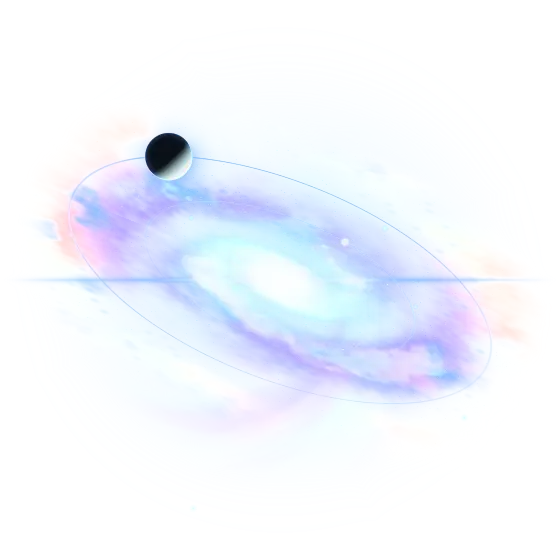
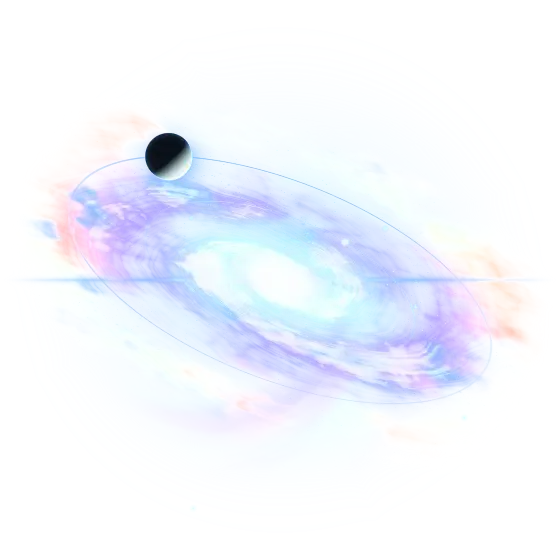
Session AM-2 (N3, the third critique's taste items): a finer galaxy, a larger star beside widgets, a mark per state
The star's shader gains the fine structure of a real disc, at the full detail only (a governed or software-drawn star
keeps the cheaper picture): fibres that run along the arms in the spiral's own coordinates, wisps of ridged turbulence,
a dust lane on each arm's inner edge, hot crests, smaller and softer star-forming knots in two colours, and a third,
finer layer of stars. Still no pow, no reversed ramp, no early loop exit (star-shader.test.ts). The five still pictures
are drawn again from it.

Beside widgets the star may now be as large as on the calm stage wherever its column holds it (from 1700 px of stage
that column is the widest by half; the sheet follows in the next commit), and a phone's star is 300 px. The bezel
carries a static mark for each state (listening, thinking, speaking), shown by opacity alone.

Claude-Session: https://claude.ai/code/session_015semg3HdoQFgabXjp9gY1W

diff --git a/apps/web/lib/nova/core/star-shader.ts b/apps/web/lib/nova/core/star-shader.ts
@@ -35,6 +35,7 @@ float hash(vec2 p){ p = fract(p*vec2(123.34, 456.21)); p += dot(p, p+45.32); ret
 float noise(vec2 p){ vec2 i=floor(p), f=fract(p); f=f*f*(3.-2.*f); return mix(mix(hash(i),hash(i+vec2(1,0)),f.x),mix(hash(i+vec2(0,1)),hash(i+vec2(1,1)),f.x),f.y); }
 float fbm(vec2 p){ float v=0., a=.5; for(int i=0;i<5;i++){ if(float(i) < uDetail){ v+=a*noise(p); p=p*2.03+vec2(17.1,9.2); a*=.5; } } return v/(1.-2.*a); }
 mat2 rot(float a){ float c=cos(a), s=sin(a); return mat2(c,-s,s,c); }
+float ridge(vec2 p){ return 1. - abs(2.*noise(p) - 1.); }
 float sq(float x){ return x*x; }
 const float TILT = .44; const float ROLL = -.38; const float ORBIT = .40; const float MOON = .255;
 void main(){
@@ -63,16 +64,33 @@ void main(){
   float lane = up(.42,.78, fbm(g*8.+vec2(4.,1.)+phase*.12));
   dens *= mix(1., .2, lane*up(.07,.3,r));
   dens *= .78 + .5*noise(g*64. + vec2(uSpin*.3, 1.7));
+  // AM-2 (N3c): the fine structure a real disc has, drawn only at the full detail (a governed or software-drawn star
+  // keeps the cheaper picture): fibres that run along the arms (noise that is fine across an arm and slow along it, in
+  // the spiral's own coordinates: sin and cos of the phase, so there is no seam), wisps of ridged turbulence, and a dark
+  // dust lane on each arm's inner edge.
+  float fine = step(3.5, uDetail);
+  float alongArm = lr*7.5 + 3., fp = phase*1.5 + 2.2*(gas - .5);
+  float f1 = noise(vec2(sin(fp)*4.6 + 11., alongArm)), f2 = noise(vec2(cos(fp)*4.6 + 5., alongArm - 7.));
+  float fibre = sq(1. - abs(f1 + f2 - 1.));
+  vec2 wg = g + .05*vec2(gas, gas2);
+  float wisp = sq(ridge(wg*19. + vec2(uSpin*.1, 2.))) * (.55 + .9*ridge(wg*41. - vec2(1.7, uSpin*.07)));
+  dens *= mix(1., (.6 + 1.05*fibre) * (.6 + 1.0*wisp), fine*.85);
+  float edge = sq(max(.5+.5*cos(phase + 1.25), 0.)); edge *= edge;
+  float dust = edge * up(.25,.7, fbm(g*15. + vec2(9., 2.) + phase*.2)) * up(.08,.2,r) * dn(.3,.6,r);
+  dens *= 1. - .78*dust*fine;
   vec3 inner = mix(vec3(1.,.97,1.), mix(uA, vec3(1.), .3), up(.0,.12,r));
   vec3 mid = mix(inner, uC, up(.09,.28,r));
   vec3 outer = mix(mid, mix(uA, peach, .5 + .5*up(.35,.75,gas)), up(.24,.5,r));
   vec3 gasCol = mix(outer, uB, up(.5,.85,gas2)*arms*.8);
   gasCol = mix(gasCol, uA*.55, lane*.5);
-  col += gasCol * dens * 2.9;
+  col += gasCol * dens * 3.3;
+  // the arms' crests run hot: a white-violet light where the gas is densest
+  col += mix(vec3(1.), uC, .35) * up(.5, 1.3, dens) * arms * disc * .5 * fine;
   // bright knots along the arms (star-forming regions)
-  vec2 kg = g*26.; vec2 ki = floor(kg); float kh = hash(ki+3.1);
-  float knot = dn(0.,.34, length(fract(kg)-.5 - (vec2(hash(ki),hash(ki+9.))-.5)*.5)) * step(.80, kh) * arms * disc * up(.06,.2,r);
-  col += mix(uB, vec3(1.), .45) * knot * 1.1;
+  vec2 kg = g*30.; vec2 ki = floor(kg); float kh = hash(ki+3.1);
+  float kd = length(fract(kg)-.5 - (vec2(hash(ki),hash(ki+9.))-.5)*.5);
+  float knot = (exp(-kd*kd*(60. + 90.*hash(ki+5.7))) + .5*exp(-kd*kd*500.)) * step(.74, kh) * arms * disc * up(.06,.2,r) * (.35 + .65*gas2);
+  col += mix(mix(uB, uC, step(.87, kh)), vec3(1.), .5) * knot * 1.25;
   // ---- the core: a white heart, a violet bloom, a thin accretion ring ----
   float pulse = 1. + .06*sin(uT*1.1) + .5*uSpeak*uPulse + .12*uThink*sin(uT*5.) + .22*uThink + .08*uListen;
   float core = exp(-r*r*300./(pulse*pulse)) * 2.6 + exp(-r*16.)*.75*pulse + exp(-r*r*2600.)*1.8;
@@ -105,6 +123,9 @@ void main(){
   vec2 tg = rot(uSpin*.42) * q * 118. + 7.; vec2 ti = floor(tg); float th = hash(ti+2.3);
   float tiny = dn(0., .16, length(fract(tg)-.5 - (vec2(hash(ti+4.1),hash(ti+8.7))-.5)*.6)) * step(.78, th) * dn(.12,.7,r) * (.35 + .65*arms);
   col += mix(vec3(.85,.92,1.), uB, th*.4) * tiny * (.55+.45*sin(uT*2.3+th*60.));
+  vec2 dg = rot(uSpin*.38) * q * 236. + 3.; vec2 di = floor(dg); float dh = hash(di+6.1);
+  float dustStars = exp(-sq(length(fract(dg)-.5 - (vec2(hash(di+2.9),hash(di+7.7))-.5)*.6))*90.) * step(.7, dh) * dn(.1,.66,r) * (.25 + .75*arms) * fine;
+  col += mix(vec3(1.,.95,.98), uC, dh*.35) * dustStars * .55;
   for(int k=0;k<3;k++){
     float fk = float(k); float z = fract(uT*(.03+.035*uThink) + fk*.333);
     vec2 pp = uv / (z*1.3+.07) * (4.+fk*1.7) + fk*13.7; vec2 pi = floor(pp); float ph = hash(pi+fk*7.3);

diff --git a/apps/web/components/nova/nova-dashboard.tsx b/apps/web/components/nova/nova-dashboard.tsx
@@ -429,12 +429,15 @@ export default function NovaDashboard() {
   const hudRoom = (hudSize?.height ?? height - 300) - 26, hudWide = hudSize?.width ?? width - 300, starSlot = hudRoom <= 520 ? 204 : hudRoom >= 640 ? 252 : 228, starRoom = (hudRoom - starSlot - 124) / 0.42;
   // Session AM-2 (ADR-038 "AM-2", G3): the star is larger — the hero of a calm stage (up to 940 px on a wide window) and
   // still large beside widgets, where its light now lies behind the widgets' glass instead of stopping at its column.
-  const starCalm = width >= 2200 ? 940 : width >= 1700 ? 760 : width >= 1280 ? 600 : 460, starCapWide = hudWide >= 1900 ? 660 : hudWide >= 1500 ? 560 : hudWide >= 1100 ? 480 : hudWide >= 960 ? 360 : 300;
+  const starCalm = width >= 2200 ? 940 : width >= 1700 ? 760 : width >= 1280 ? 600 : 460, starCapWide = hudWide >= 1100 ? starCalm : hudWide >= 960 ? 360 : 300;
   // Beside widgets the star keeps to its own column (the widest of the three: holo.css), a little over its width, so the
   // galaxy's arms and its bezel are whole between the wings (the second critique: "the rings are cut by the frames").
-  const starColumn = hudWide >= 1700 ? (hudWide - 56) / 3 : hudWide > 900 ? (hudWide - 40) * 1.1 / 3.1 : hudWide;
+  // Session AM-2 (N3a, the third critique: "the star is ~550 px of 2560 with empty bands above and below"): from 1700 px
+  // of stage the star's column is the widest by half (holo.css: 1fr 1.5fr 1fr), and beside widgets the star may be as
+  // large as on the calm stage wherever that column holds it.
+  const starColumn = hudWide >= 1700 ? (hudWide - 56) * 1.5 / 3.5 : hudWide > 900 ? (hudWide - 40) * 1.1 / 3.1 : hudWide;
   const starCap = stage.shown.length ? Math.min(starCapWide, Math.max(300, Math.round(starColumn * 1.15))) : starCalm;
-  const starSize = phone ? 260 : Math.round(Math.max(240, Math.min(starCap, starRoom))), starBox = phone ? 110 : Math.round(Math.max(240, Math.min(hudWide > 900 ? starCalm : starCap, starRoom)) * 0.42);
+  const starSize = phone ? 300 : Math.round(Math.max(240, Math.min(starCap, starRoom))), starBox = phone ? 126 : Math.round(Math.max(240, Math.min(hudWide > 900 ? starCalm : starCap, starRoom)) * 0.42);
   const star = <LoadBoundary quiet><Suspense fallback={null}><StarSystem state={shownOrb} hud={hudMove.state} accent={accent} phone={phone} size={starSize} beam={beam} onReport={onStarReport}/></Suspense></LoadBoundary>;
   const starWhy = starReport && (starReport.why || starReport.always) ? {kind: starReport.why?.kind ?? 'running', text: starReport.why?.text ?? 'The star is running', details: starReport.details, open: starReport.always} : null;
   // Design review AM-D18: from the answer, one keypress to the widget it made (the newest one that is still on the stage).

diff --git a/apps/web/components/nova/nova-stage.tsx b/apps/web/components/nova/nova-stage.tsx
@@ -76,9 +76,15 @@ export function NovaStage({persona, orb, greeting, typingFrom, counts, showcase,
       {starOn && persona.avatar !== 'zigi' && <span className="cc-streak" aria-hidden="true"/>}
       {/* Session AM-2 (G4): the star's bezel — a ring of fine ticks in the galaxy's own plane, just outside its arms (static
           decoration; components/nova/stage/command-centre.css). It replaces AK's three orbit rings while the star draws. */}
-      {starOn && persona.avatar !== 'zigi' && <span className="cc-bezel" aria-hidden="true"><svg viewBox="-100 -100 200 200" focusable="false"><g transform="rotate(21.8)">
+      {starOn && persona.avatar !== 'zigi' && <span className="cc-bezel" aria-hidden="true" data-state={orb}><svg viewBox="-100 -100 200 200" focusable="false"><g transform="rotate(21.8)">
         <ellipse rx="97" ry="42.7" className="cc-bezel-line"/><ellipse rx="93" ry="40.9" className="cc-bezel-ticks" pathLength="360" strokeDasharray="0.2 2.8"/><ellipse rx="92.2" ry="40.6" className="cc-bezel-marks" pathLength="360" strokeDasharray="0.45 29.55"/>
         <ellipse rx="99.5" ry="43.8" className="cc-bezel-arc" pathLength="360" strokeDasharray="36 144"/>
+        {/* N3b (the third critique: "the four states read alike in a still"): each state wears its own mark on the bezel,
+            all drawn always and shown by opacity alone — listening a lit ring with ticks pointing in, thinking a ring
+            in segments, speaking ticks pointing out with two rings going outward. The words under the star say the same. */}
+        <g className="cc-state cc-state-listening"><ellipse rx="100.5" ry="44.2" className="cc-state-ring"/><ellipse rx="96.5" ry="42.5" className="cc-state-ticks" pathLength="360" strokeDasharray="0.5 5.5"/><ellipse rx="86" ry="37.8" className="cc-state-faint"/></g>
+        <g className="cc-state cc-state-thinking"><ellipse rx="100.5" ry="44.2" className="cc-state-ring" pathLength="360" strokeDasharray="21 9"/><ellipse rx="105" ry="46.2" className="cc-state-faint" pathLength="360" strokeDasharray="5 25"/></g>
+        <g className="cc-state cc-state-speaking"><ellipse rx="103.5" ry="45.5" className="cc-state-ticks" pathLength="360" strokeDasharray="0.5 3.5"/><ellipse rx="109" ry="48" className="cc-state-ring"/><ellipse rx="115" ry="50.6" className="cc-state-faint"/></g>
       </g></svg></span>}
       {persona.avatar !== 'zigi' && star}
       {persona.avatar === 'zigi' ? <PersonaMark avatar="zigi" size={170} state={orb}/> : <NovaOrb state={orb} size={220}/>}
